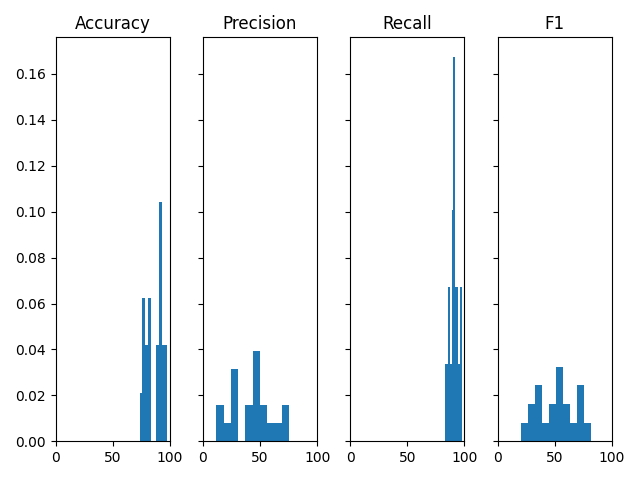
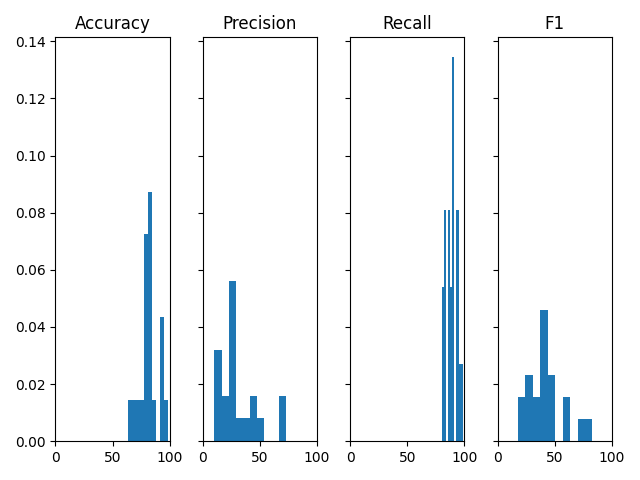
added player result comparison

diff --git a/trainer/trainer_dt.py b/trainer/trainer_dt.py
@@ -35,7 +35,7 @@ for i in X:
     steamer.append(str(i[0][0]) + i[0][1])
 steamer = pd.DataFrame(steamer,columns=['steamid'])
 steamer = steamer["steamid"].value_counts()
-result_values = steamer
+result_values = {}
 result_dict = {}
 result_dict["accuracy"] = []
 result_dict["precision"] = []
@@ -52,10 +52,21 @@ for player in steamer.index:
 
         for inst in X:
             atomic_inst = inst[1]
+            if (atomic_inst.size == 0):
+                continue
             atomic_inst = np.delete(atomic_inst, np.arange(1, atomic_inst.size, 35))
             atomic_arr = []
-            for i in range(34):
-                atomic_arr.append(np.mean(atomic_inst[np.arange(i, atomic_inst.size, 34)]))
+            atomic_arr.append(np.mean(atomic_inst[np.arange(0, atomic_inst.size, 34)]))
+            for i in range(1,33):
+                if (i%4 == 1):
+                    atomic_arr.append(np.min(atomic_inst[np.arange(i, atomic_inst.size, 34)]))
+                elif (i%4 == 2):
+                    atomic_arr.append(np.max(atomic_inst[np.arange(i, atomic_inst.size, 34)]))
+                elif (i%4 == 3):
+                    atomic_arr.append(np.mean(atomic_inst[np.arange(i, atomic_inst.size, 34)]))
+                elif (i%4 == 0):
+                    atomic_arr.append(np.std(atomic_inst[np.arange(i, atomic_inst.size, 34)]))
+            atomic_arr.append(np.mean(atomic_inst[np.arange(33, atomic_inst.size, 34)]))
             atomic_arr = np.array(atomic_arr)
             atomic_arr = np.nan_to_num(atomic_arr, nan=0, posinf=0, neginf=0)
             
@@ -72,9 +83,6 @@ for player in steamer.index:
                 continue
             new_X.append(atomic_arr)
 
-        med_tick = 30000
-        new_X_padded  = list(map(lambda x: np.resize(x, med_tick) if np.size(x) >= med_tick else np.pad(x, (0, med_tick - x.size), 'constant'), new_X))
-
         X_train, X_test, y_train, y_test = train_test_split(new_X, y, test_size=0.25, random_state=42)
         from sklearn.tree import DecisionTreeClassifier
         clf = DecisionTreeClassifier(random_state=42).fit(X_train, y_train)
@@ -84,7 +92,7 @@ for player in steamer.index:
         result_dict["precision"].append(round(result_rm["test_precision"].mean()*100,2))
         result_dict["recall"].append(round(result_rm["test_recall"].mean()*100,2))
         result_dict["f1"].append(round(result_rm["test_f1"].mean()*100,2))
-        result_values[str(steam_id) + hero_name] = round(result_rm["test_f1"].mean()*100,2)
+        result_values[player] = round(result_rm["test_f1"].mean()*100,2)
         print("batch " + str(counter))
         counter += 1
 

diff --git a/trainer/trainer_rf.py b/trainer/trainer_rf.py
@@ -33,7 +33,7 @@ for i in X:
     steamer.append(str(i[0][0]) + i[0][1])
 steamer = pd.DataFrame(steamer,columns=['steamid'])
 steamer = steamer["steamid"].value_counts()
-result_values = steamer
+result_values = {}
 result_dict = {}
 result_dict["accuracy"] = []
 result_dict["precision"] = []
@@ -50,10 +50,21 @@ for player in steamer.index:
 
         for inst in X:
             atomic_inst = inst[1]
+            if (atomic_inst.size == 0):
+                continue
             atomic_inst = np.delete(atomic_inst, np.arange(1, atomic_inst.size, 35))
             atomic_arr = []
-            for i in range(34):
-                atomic_arr.append(np.mean(atomic_inst[np.arange(i, atomic_inst.size, 34)]))
+            atomic_arr.append(np.mean(atomic_inst[np.arange(0, atomic_inst.size, 34)]))
+            for i in range(1,33):
+                if (i%4 == 1):
+                    atomic_arr.append(np.min(atomic_inst[np.arange(i, atomic_inst.size, 34)]))
+                elif (i%4 == 2):
+                    atomic_arr.append(np.max(atomic_inst[np.arange(i, atomic_inst.size, 34)]))
+                elif (i%4 == 3):
+                    atomic_arr.append(np.mean(atomic_inst[np.arange(i, atomic_inst.size, 34)]))
+                elif (i%4 == 0):
+                    atomic_arr.append(np.std(atomic_inst[np.arange(i, atomic_inst.size, 34)]))
+            atomic_arr.append(np.mean(atomic_inst[np.arange(33, atomic_inst.size, 34)]))
             atomic_arr = np.array(atomic_arr)
             atomic_arr = np.nan_to_num(atomic_arr, nan=0, posinf=0, neginf=0)
             
@@ -79,7 +90,7 @@ for player in steamer.index:
         result_dict["precision"].append(round(result_rm["test_precision"].mean()*100,2))
         result_dict["recall"].append(round(result_rm["test_recall"].mean()*100,2))
         result_dict["f1"].append(round(result_rm["test_f1"].mean()*100,2))
-        result_values[str(steam_id) + hero_name] = round(result_rm["test_f1"].mean()*100,2)
+        result_values[player] = round(result_rm["test_f1"].mean()*100,2)
         print("batch " + str(counter))
         counter += 1
 

diff --git a/trainer/trainer_lr.py b/trainer/trainer_lr.py
@@ -30,7 +30,7 @@ for i in X:
     steamer.append(str(i[0][0]) + i[0][1])
 steamer = pd.DataFrame(steamer,columns=['steamid'])
 steamer = steamer["steamid"].value_counts()
-result_values = steamer
+result_values = {}
 result_dict = {}
 result_dict["accuracy"] = []
 result_dict["precision"] = []
@@ -86,7 +86,7 @@ for player in steamer.index:
         result_dict["precision"].append(round(result_rm["test_precision"].mean()*100,2))
         result_dict["recall"].append(round(result_rm["test_recall"].mean()*100,2))
         result_dict["f1"].append(round(result_rm["test_f1"].mean()*100,2))
-        result_values[str(steam_id) + hero_name] = round(result_rm["test_f1"].mean()*100,2)
+        result_values[player] = round(result_rm["test_f1"].mean()*100,2)
         print("batch " + str(counter))
         counter += 1
 
